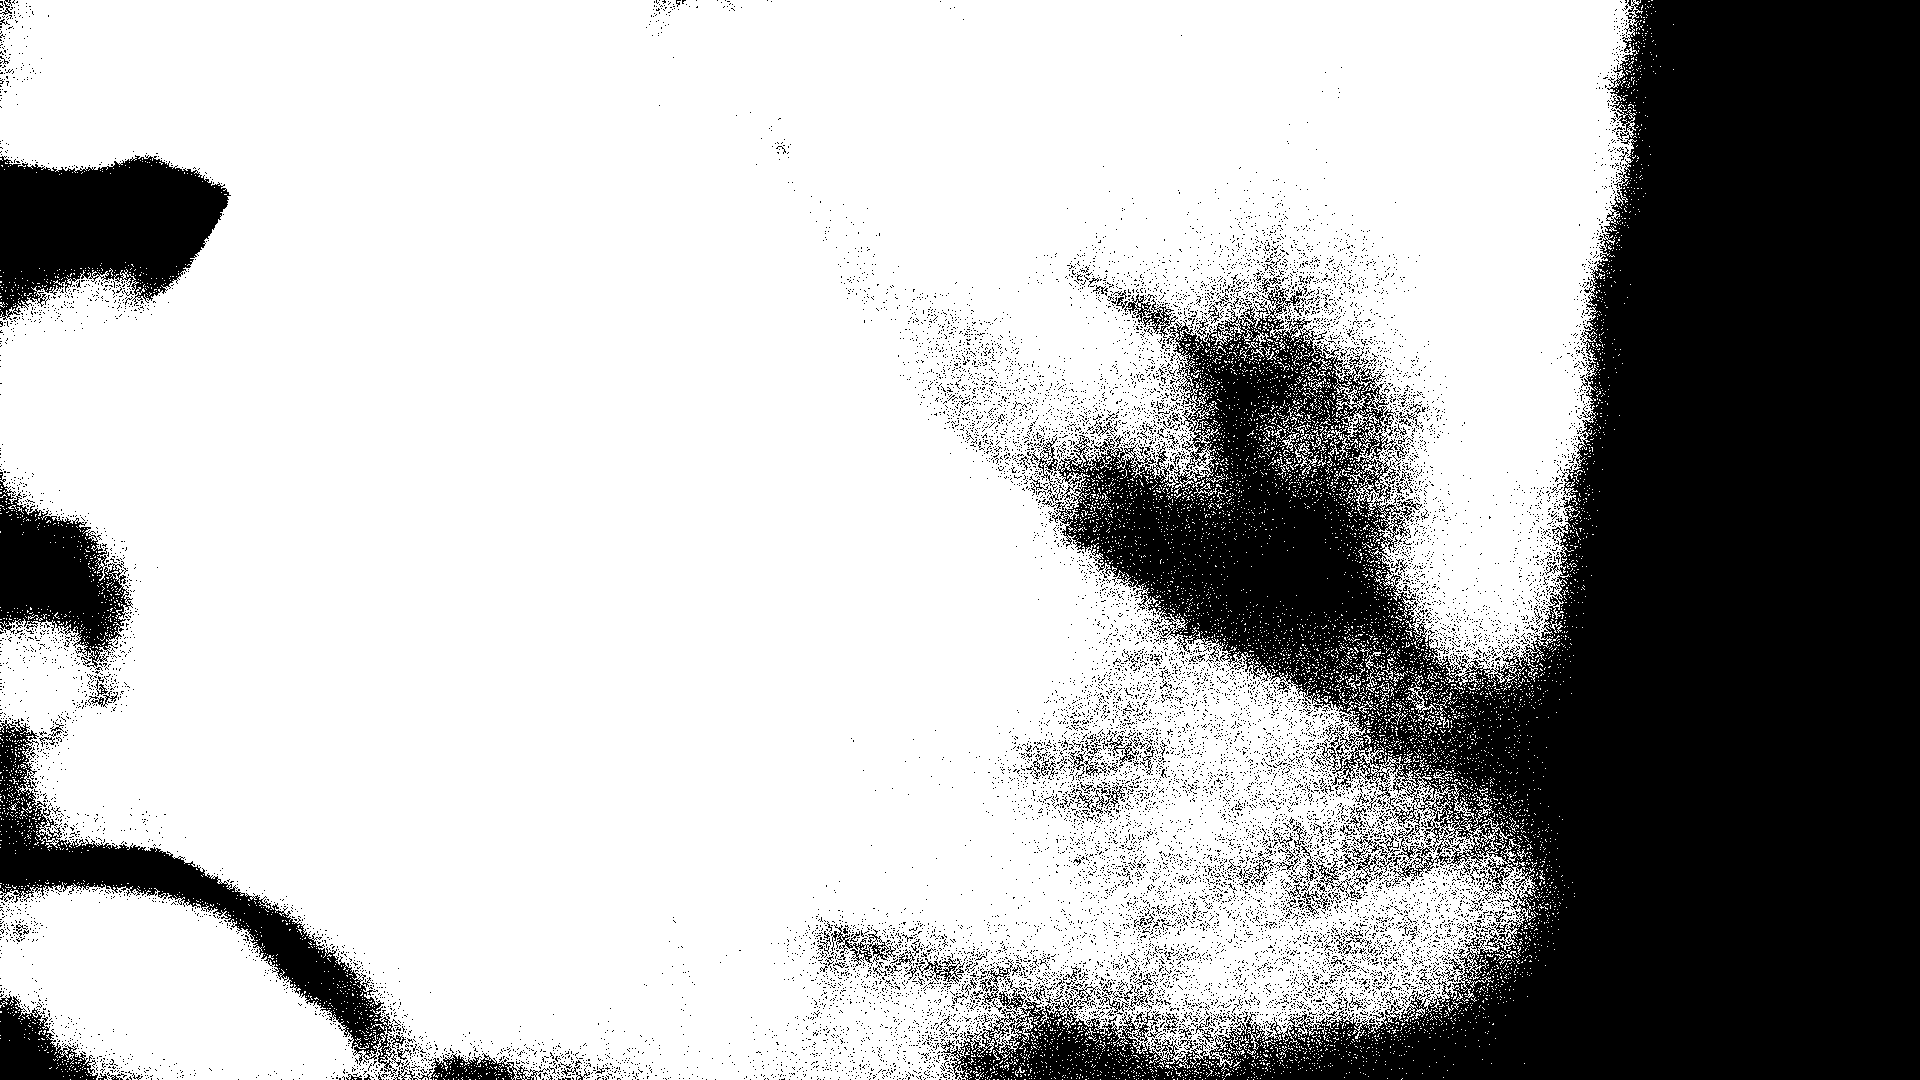
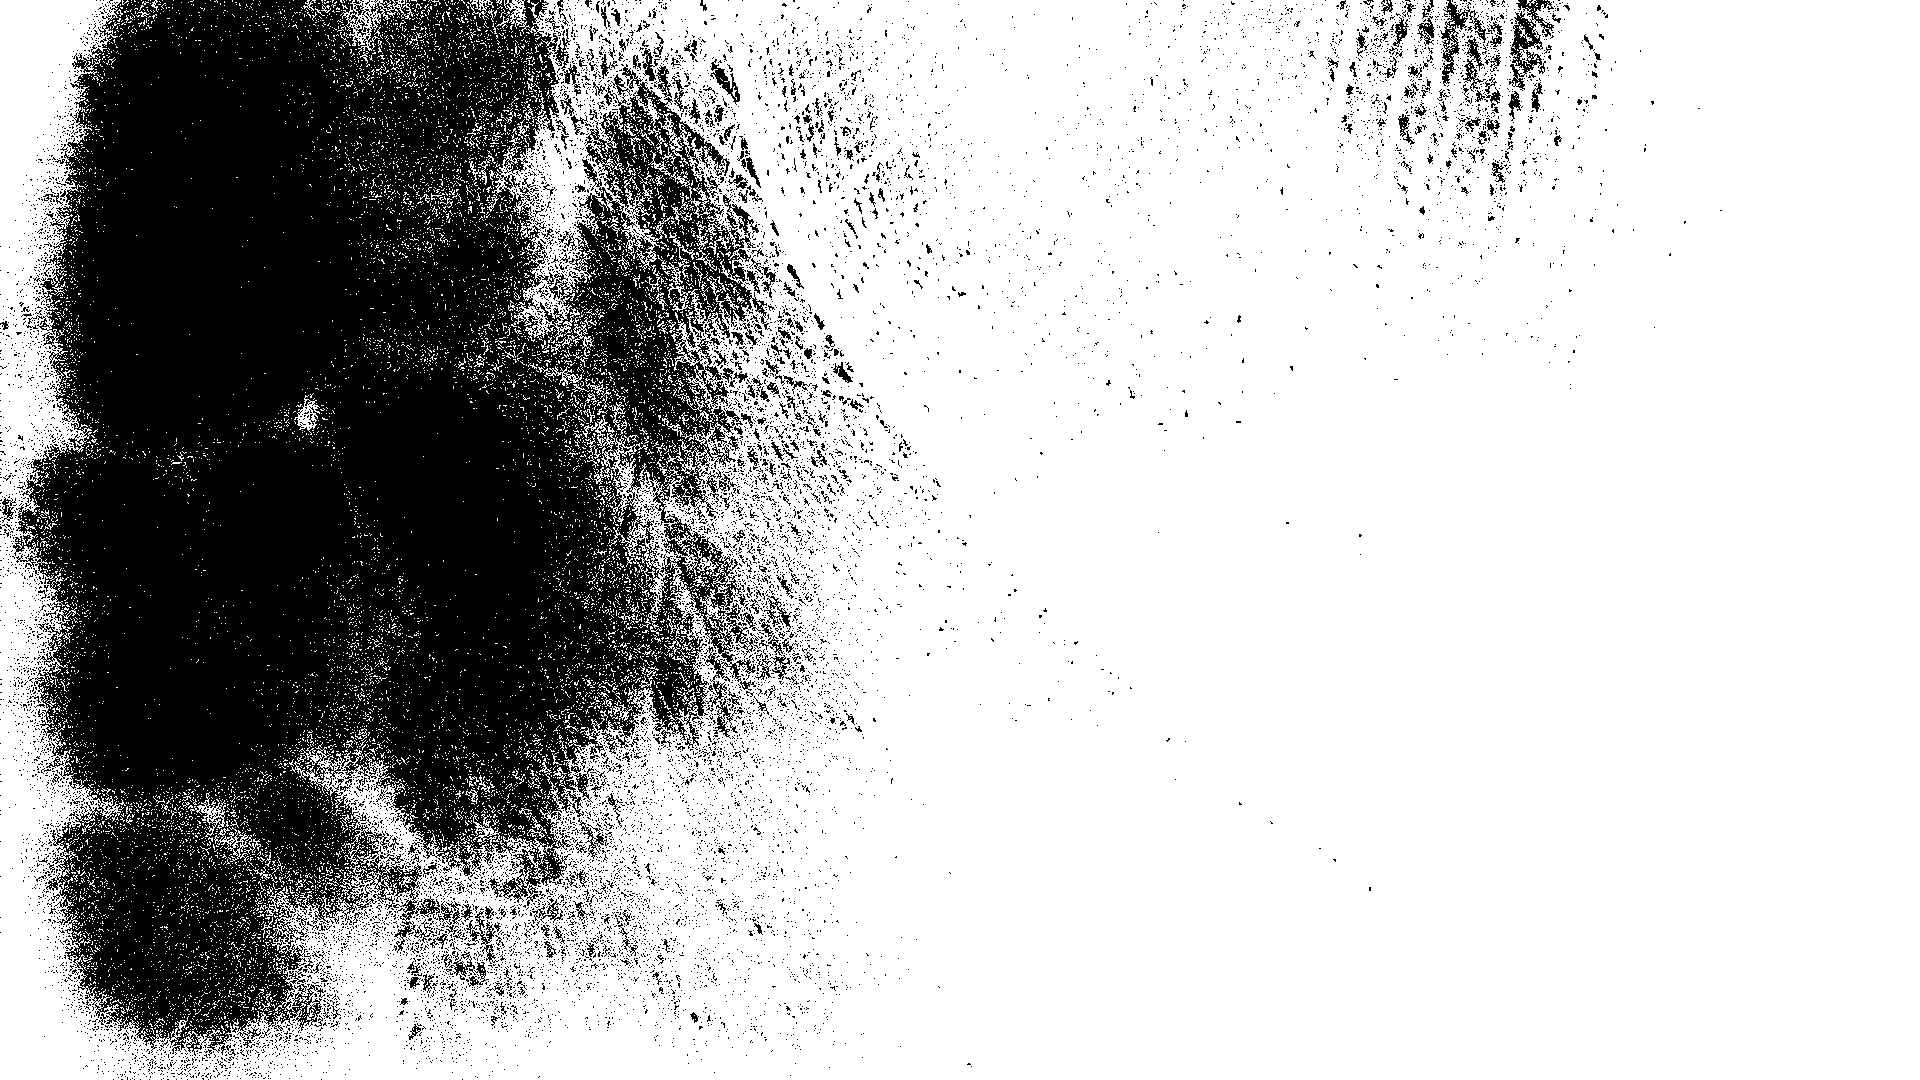
17:19

diff --git a/Ocvpydeneme.py b/Ocvpydeneme.py
@@ -17,5 +17,5 @@ clahe=cv2.createCLAHE(clipLimit=2.0,tileGridSize=(8,8))
 cl1=clahe.apply(img)
 cv2.imwrite('clahevein.png',cl1)
 bnw=cv2.imread('clahevein.png',cv2.IMREAD_GRAYSCALE)
-(thresh,imbw)=cv2.threshold(bnw,128,255,cv2.THRESH_BINARY | cv2.THRESH_OTSU)
+(thresh,imbw)=cv2.threshold(bnw,128,255,cv2.THRESH_BINARY_INV)
 cv2.imwrite('bwdeneme.png',imbw)
